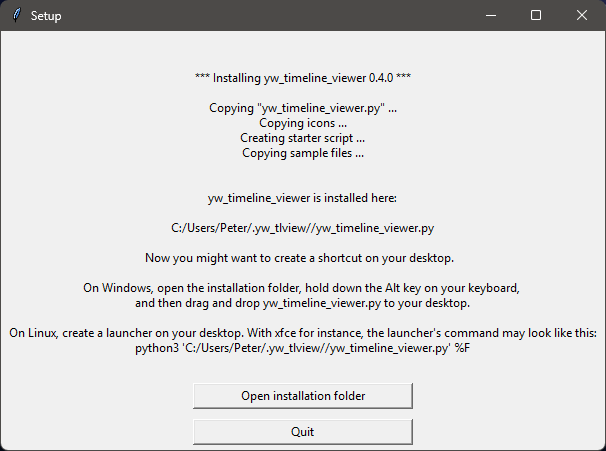
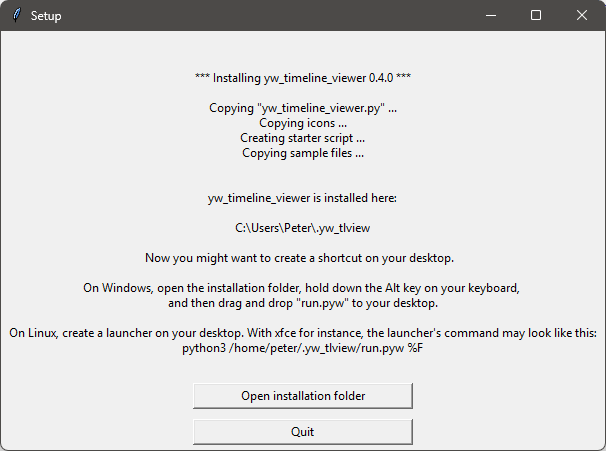
Rebuilt version 0.4.0 with fixed setup message.

diff --git a/src/setuplib.py b/src/setuplib.py
@@ -34,16 +34,16 @@ SUCCESS_MESSAGE = '''
 
 $Appname is installed here:
 
-$Apppath'''
+$DisplayDir'''
 
 SHORTCUT_MESSAGE = '''
 Now you might want to create a shortcut on your desktop.  
 
 On Windows, open the installation folder, hold down the Alt key on your keyboard, 
-and then drag and drop $Appname.py to your desktop.
+and then drag and drop "run.pyw" to your desktop.
 
 On Linux, create a launcher on your desktop. With xfce for instance, the launcher's command may look like this:
-python3 '$Apppath' %F
+python3 /home/peter/.yw_tlview/run.pyw %F
 '''
 
 START_UP_CODE = f'''import logging
@@ -157,9 +157,13 @@ def install(novxPath, zipped):
 
     #--- Create a start-up script.
     output('Creating starter script ...')
-    mapping = {'Appname': APPNAME, 'Apppath': f'{installDir}/{START_UP_SCRIPT}'}
-    mapping['InstallDir'] = installDir
-    mapping['Release'] = VERSION
+    mapping = {
+        'Appname': APPNAME,
+        'Apppath': f'{installDir}/{START_UP_SCRIPT}',
+        'InstallDir': installDir,
+        'Release': VERSION,
+        'DisplayDir': os.path.normpath(f'{installDir}'),
+    }
     if platform.system() == 'Windows':
         shebang = ''
     else:
@@ -179,7 +183,6 @@ def install(novxPath, zipped):
     copy_tree('sample', installDir)
 
     # Display a success message.
-    mapping = {'Appname': APPNAME, 'Apppath': f'{installDir}/{APP}'}
     output(Template(SUCCESS_MESSAGE).safe_substitute(mapping))
 
     # Ask for shortcut creation.
@@ -203,7 +206,7 @@ def main(zipped=True):
 
     # Run the installation.
     homePath = str(Path.home()).replace('\\', '/')
-    novxlibPath = f'{homePath}/{INSTALL_DIR}/'
+    novxlibPath = f'{homePath}/{INSTALL_DIR}'
     try:
         install(novxlibPath, zipped)
     except Exception as ex:
